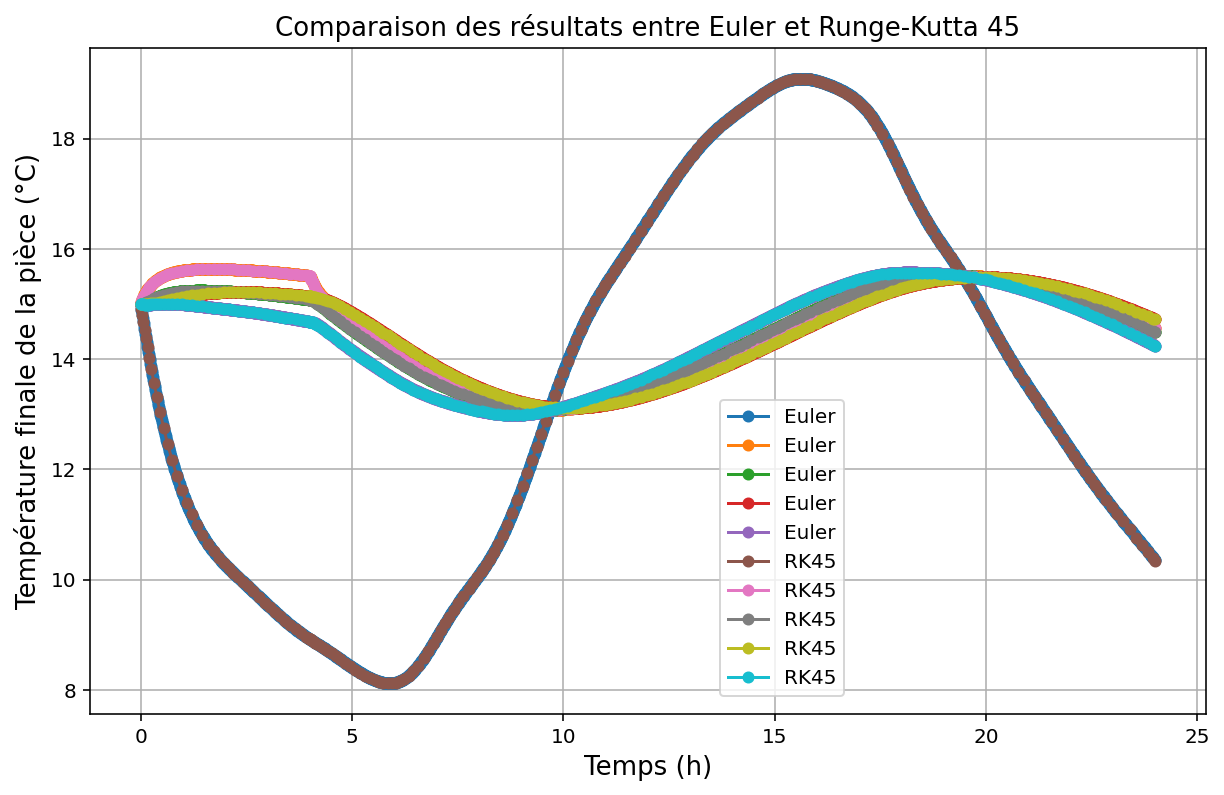
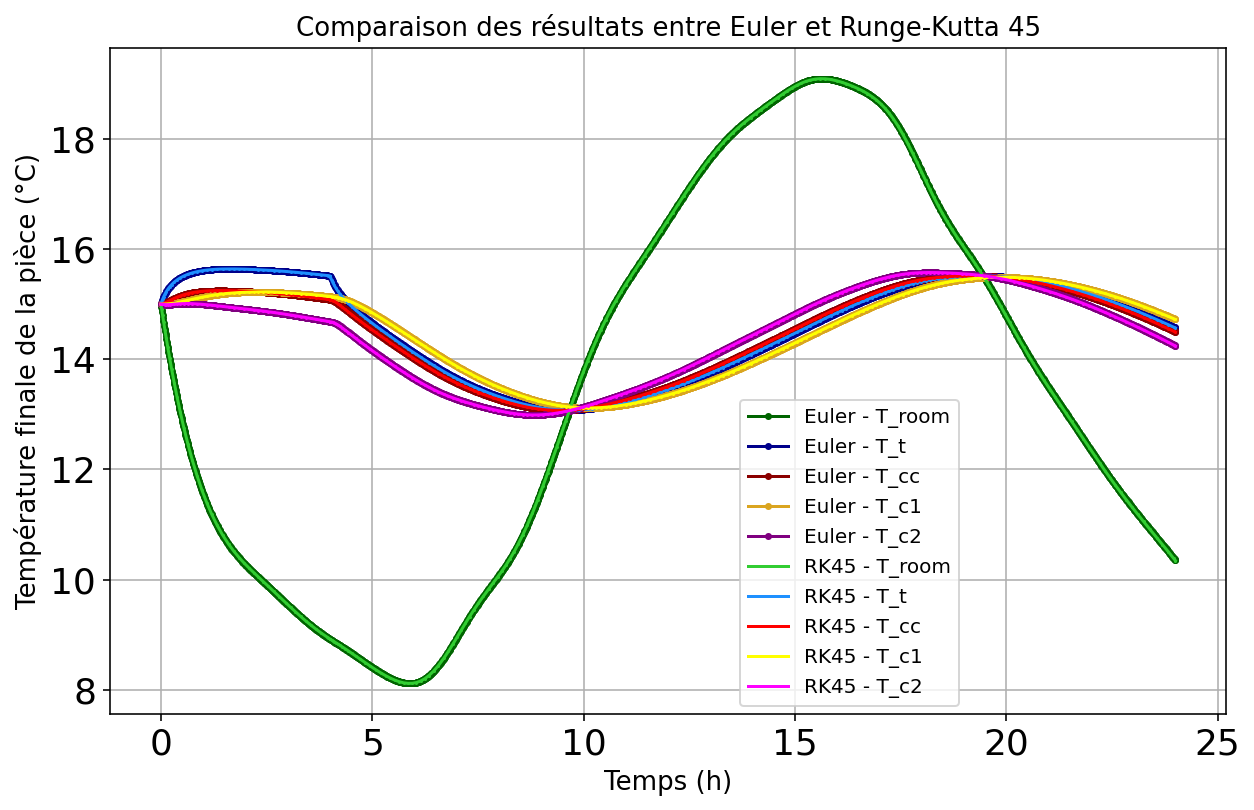
fix: compare Euler IVP graph

Changed region(s): [[0.0, 0.0, 0.9935, 0.9962]]

diff --git a/SimTABS.py b/SimTABS.py
@@ -34,7 +34,7 @@ R =         [cc-c1,  x,   c2-cc,   r-s,  s-c2,   w]'''
 R = np.array([0.05, 0.025 , 0.02  , 0.1, 0.183, 0.15]) 
 
 nom_T = ["la pièce, T_room", "l'eau dans les tubes, T_t", "la partie centrale du béton, T_cc", "la partie supérieure du béton, T_c1", "la partie inférieure du béton, T_c2",] 
-
+nom_T_x = ["room", "t", "cc", "c1", "c2"]
 # Question 3.1 ##############################################################################################################
 
 def odefunction(t, T):
@@ -100,9 +100,10 @@ tspan = [t0, tf]
 
 Euler = calculTemperaturesEuler(tspan, T0, h)
 
+color_euler = ['darkgreen', 'darkblue', 'darkred', 'goldenrod', 'purple']
 plt.figure(figsize=(10, 6))
 for k in range(len(T0)):
-    plt.plot(Euler[0], Euler[1][k, :], 'o-', markersize=5, label="Euler") # Tracer Euler
+    plt.plot(Euler[0], Euler[1][k, :], 'o-', color=color_euler[k], markersize=2.5, label="Euler - T_"+nom_T_x[k]) # Tracer Euler
 plt.xlabel("Temps (h)", fontsize=13)
 plt.ylabel("Température finale de la pièce (°C)", fontsize=13)
 plt.title("Comparaison des résultats entre Euler et Runge-Kutta 45", fontsize=13)
@@ -122,8 +123,9 @@ tspan = [t0, tf]
 rtol = 1e-15
 IVP = calculTemperaturesIVP(tspan, T0, rtol)
 
+color_ivp = ['limegreen', 'dodgerblue', 'red', 'yellow', 'magenta']
 for k in range(len(T0)):
-    plt.plot(IVP[0], IVP[1][k, :], 'o-', markersize=5, label="RK45")
+    plt.plot(IVP[0], IVP[1][k, :], 'o-', color=color_ivp[k], markersize=0.5, label="RK45 - T_"+nom_T_x[k])
 plt.grid(True)
 plt.legend(loc='upper left', bbox_to_anchor=(80/plt.gcf().dpi, 70/plt.gcf().dpi))
 plt.show()
